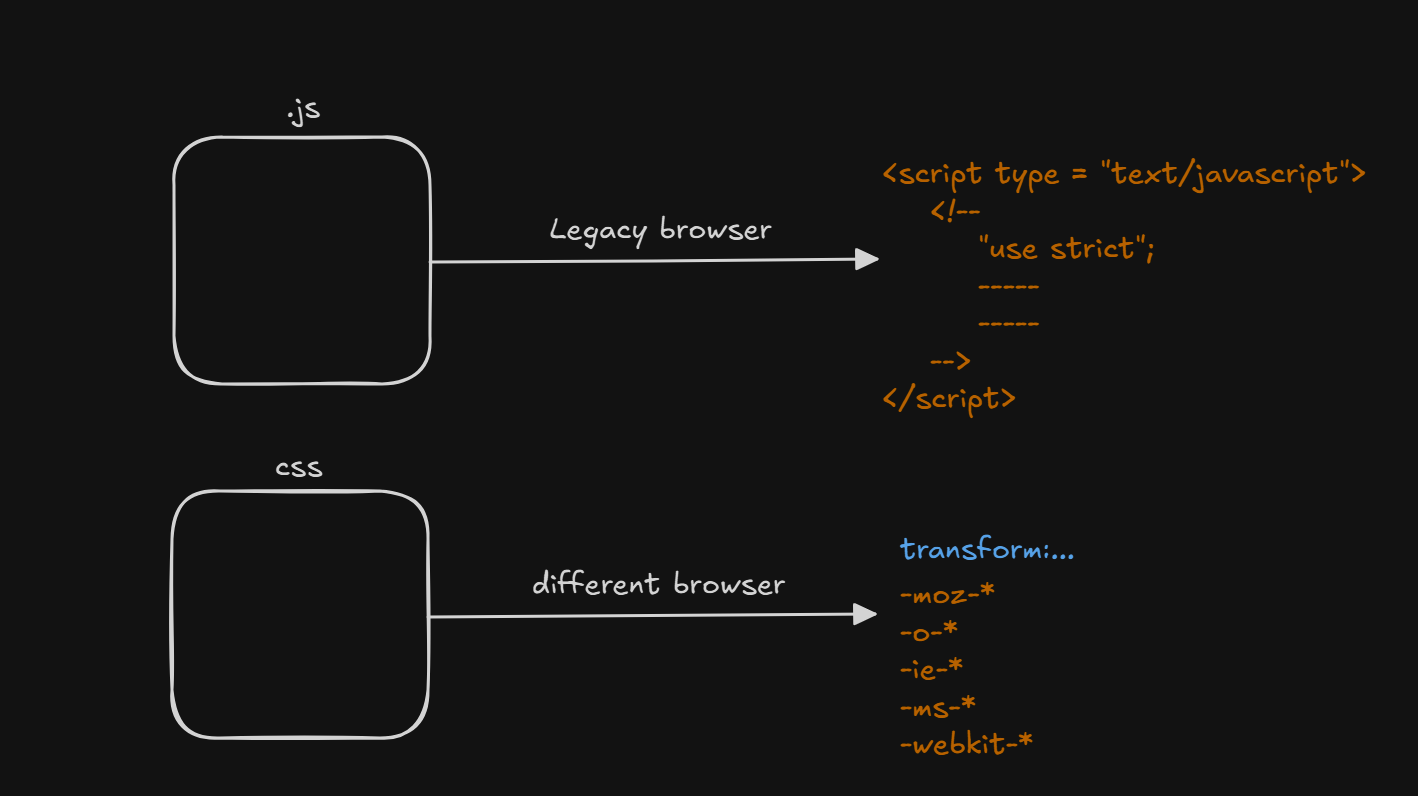
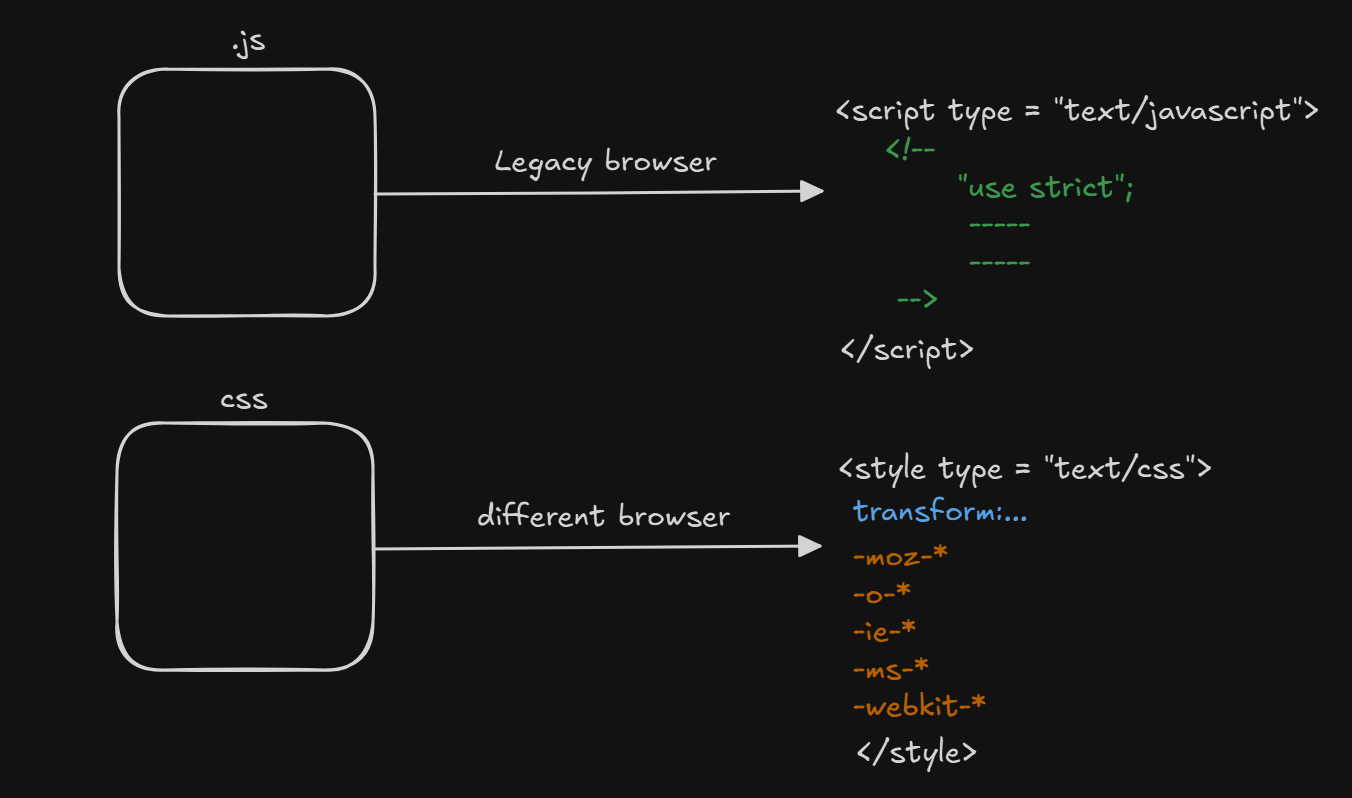
No Message

diff --git a/README.md b/README.md
@@ -92,6 +92,35 @@
    </script>
    ```
 
-5. How to target Javascript for Legacy Browsers? [Old Version Browsers].
-
+5. How to target Javascript for Legacy Browsers? [Old Version Browsers]
+   
+   How to target advanced features of CSS to work with all browsers?
+    > Refer Image
+    >
     > ![](7.png)
+
+6. How to link external javascript file to html file?
+   ```
+   <script type = "text/javascript" src = "">
+   ```
+
+7. How Javascript take the control over the HTML elements?
+   > We need to target the html elements and take control over the elements.
+
+---
+<br>
+
+![](11.png)
+<br><br>
+![](8.png)
+<br><br>
+![](9.png)
+<br><br>
+![](10.png)
+#### Note:- 
+1.  In Javascript "Arrays are dynamic".
+2. Acessing the elements using DOM heirarchy through index is not a good practice.
+   > Solution: Access it with a name.
+
+
+
